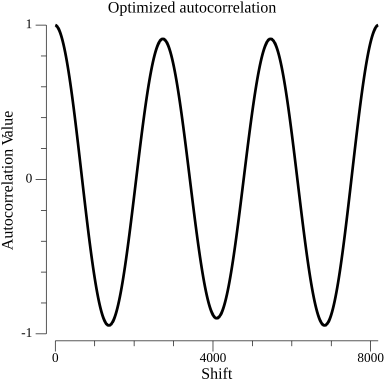
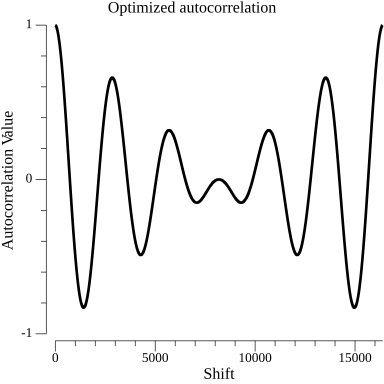
Add zero padding

diff --git a/utils/utils.go b/utils/utils.go
@@ -13,6 +13,20 @@ func BufferToFloat64(buf *audio.IntBuffer) []float64 {
 	return fSamples
 }
 
+func Float64ToBuffer(fSamples []float64) *audio.IntBuffer {
+	samples := make([]int, len(fSamples))
+	for i, fSample := range fSamples {
+		samples[i] = int(fSample)
+	}
+	return &audio.IntBuffer{
+		Data: samples,
+		Format: &audio.Format{
+			SampleRate:  44100,
+			NumChannels: 1,
+		},
+	}
+}
+
 func MakeBuffer(samples []int) *audio.IntBuffer {
 	return &audio.IntBuffer{
 		Format: &audio.Format{SampleRate: 44000, NumChannels: 1},
@@ -138,4 +152,19 @@ func TotalPowerFromSpectrum(powerSpectrum []complex128) float64 {
 	}
 
 	return totalPower
+}
+
+/*
+Zero padding for SNAC, pad 1:1 trailing
+*/
+func SnacPad(buf []float64) []float64 {
+	padded := make([]float64, len(buf)*2)
+	copy(padded, buf)
+	return padded
+}
+
+func SnacPadBuffer(buf *audio.IntBuffer) *audio.IntBuffer {
+	fSamples := BufferToFloat64(buf)
+	fPadded := SnacPad(fSamples)
+	return Float64ToBuffer(fPadded)
 }

diff --git a/autocorrelation.naive.go b/autocorrelation.naive.go
@@ -34,7 +34,7 @@ func NaiveAutocorrelationNorm(buf *audio.IntBuffer) []float64 {
 	cumulativePowers := utils.CumulativeTotalPower(buf)
 
 	for shift := 0; shift < n; shift++ {
-		power := cumulativePowers[n-shift-1]
+		power := cumulativePowers[n-shift-1] //SNAC norm = norm[1] = norm[0] - (x2[0]+x2[N-1]).
 
 		var sum float64
 		for i := 0; i < slen-shift; i++ {

diff --git a/main.go b/main.go
@@ -77,7 +77,8 @@ func main() {
 		return
 	}
 
-	slicedBuffer := utils.SliceBuffer(fullBuffer, 8192) //About 40 full cycles of A440
+	slicedBuffer := utils.SliceBuffer(fullBuffer, 8196) //About 40 full cycles of A440
+	slicedBuffer = utils.SnacPadBuffer(slicedBuffer)
 
 	fmt.Println()
 	fmt.Println()
